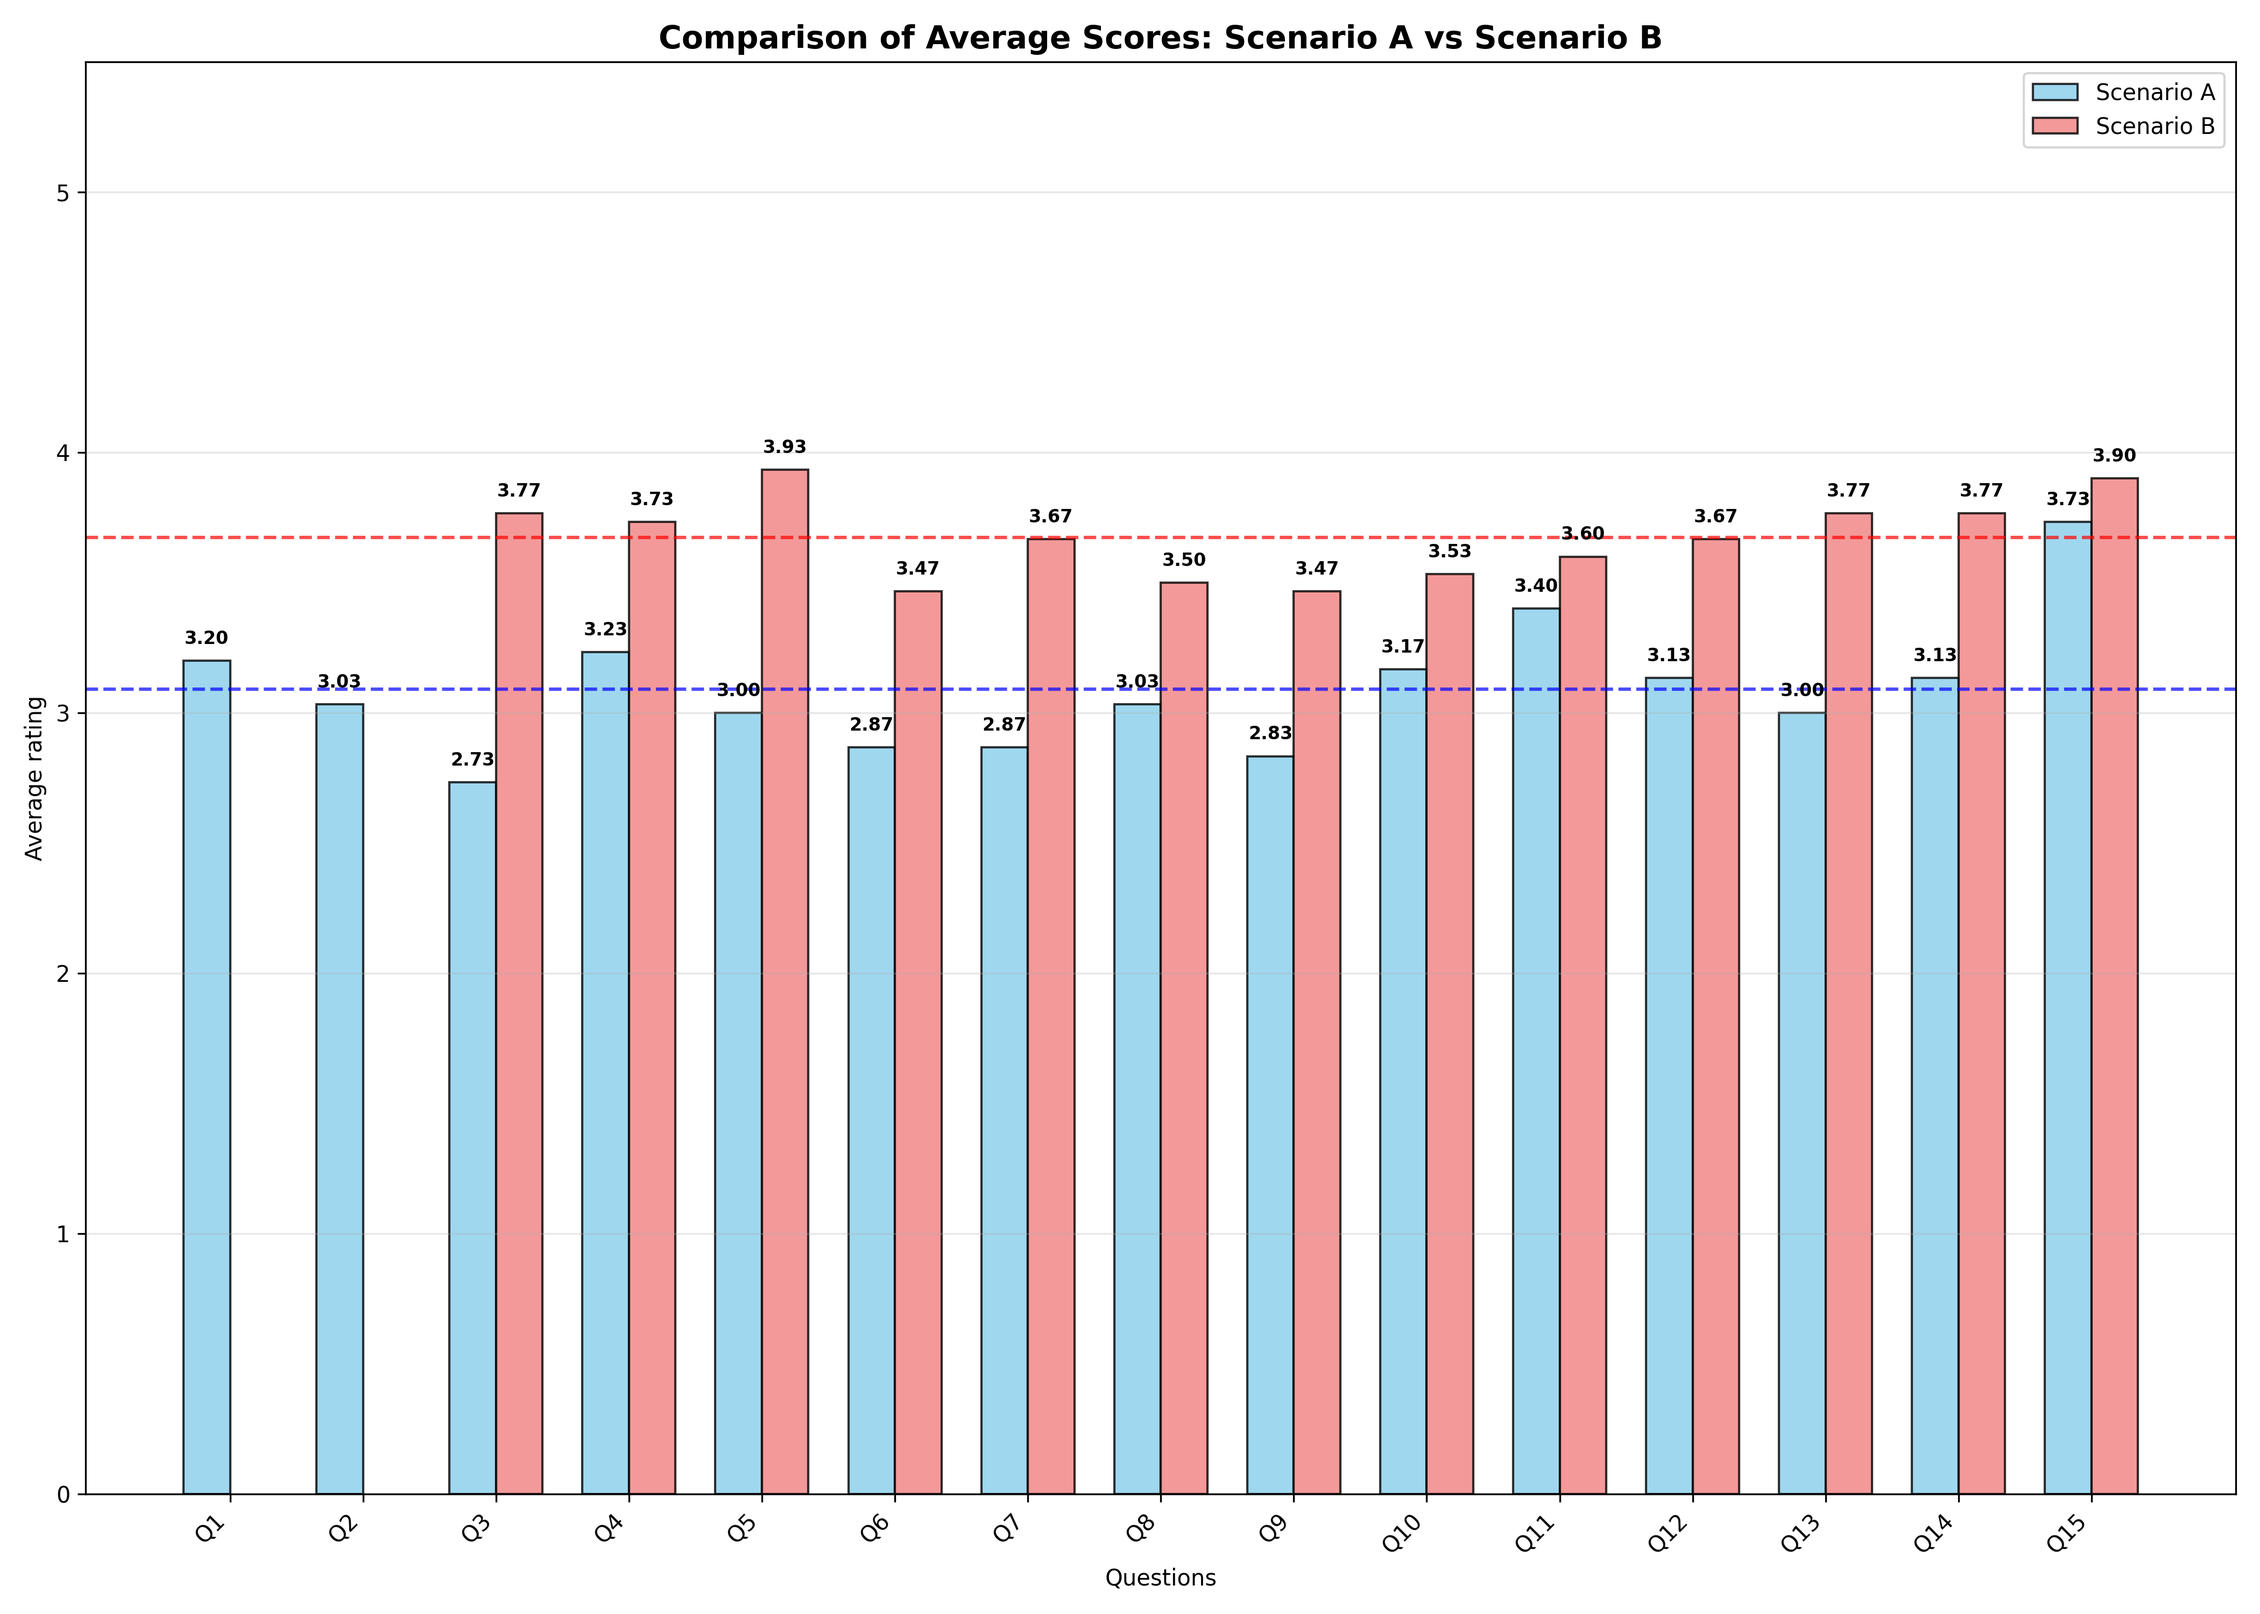
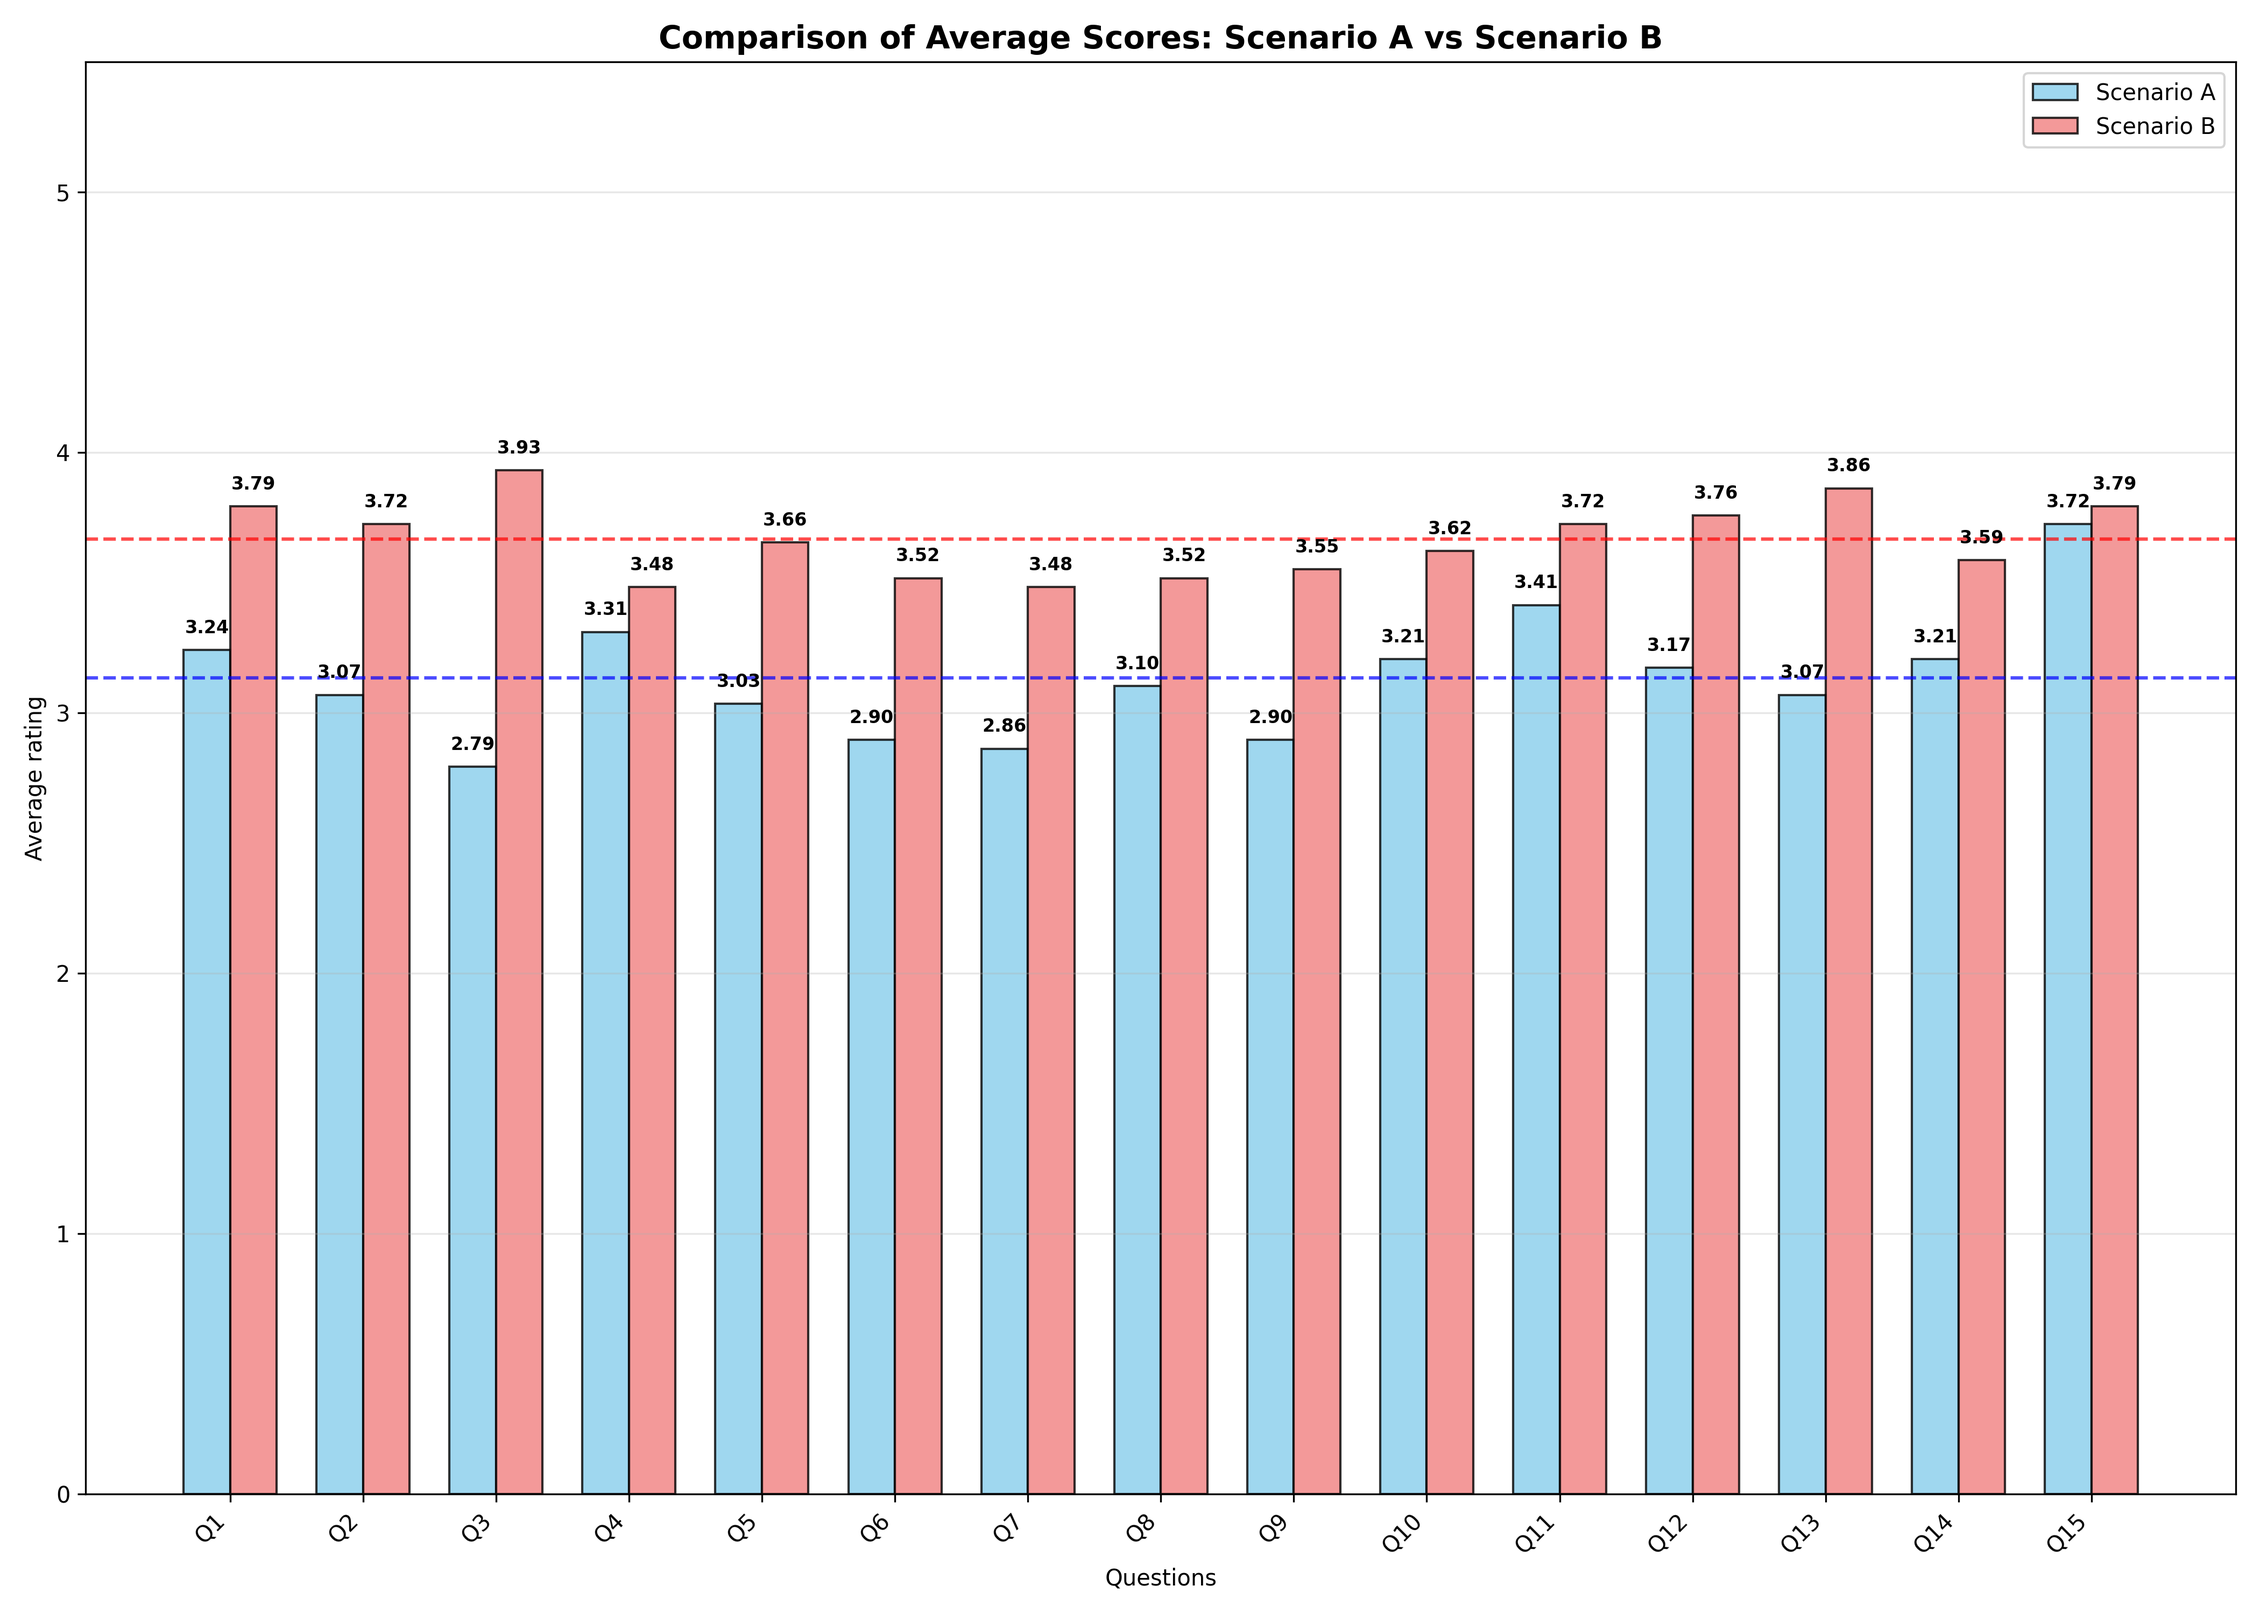
Fixed values

diff --git a/main.py b/main.py
@@ -2,6 +2,7 @@
 import pandas as pd
 import matplotlib.pyplot as plt
 import seaborn as sns
+
 import numpy as np
 from wordcloud import WordCloud
 from scipy import stats
@@ -18,7 +19,7 @@ sns.set_palette("husl")
 # LOAD AND PREPARE DATA
 # =============================================================
 
-df = pd.read_csv(r"Новая форма.csv", encoding='utf-8')
+df = pd.read_csv("Новая форма.csv", encoding='utf-8', header=1)
 
 print("=" * 50)
 print("SURVEY DATA ANALYSIS")
@@ -26,8 +27,9 @@ print("=" * 50)
 
 print("Dataset shape:", df.shape)
 
-scenario_a_columns = df.columns[4:19]
-scenario_b_columns = df.columns[19:34]
+scenario_a_columns = df.columns[4:19]   # Columns 4–18 inclusive (Scenario A)
+scenario_b_columns = df.columns[21:36]  # Columns 21–35 inclusive (Scenario B)
+
 
 print(f"Scenario A: {len(scenario_a_columns)} questions")
 print(f"Scenario B: {len(scenario_b_columns)} questions")
